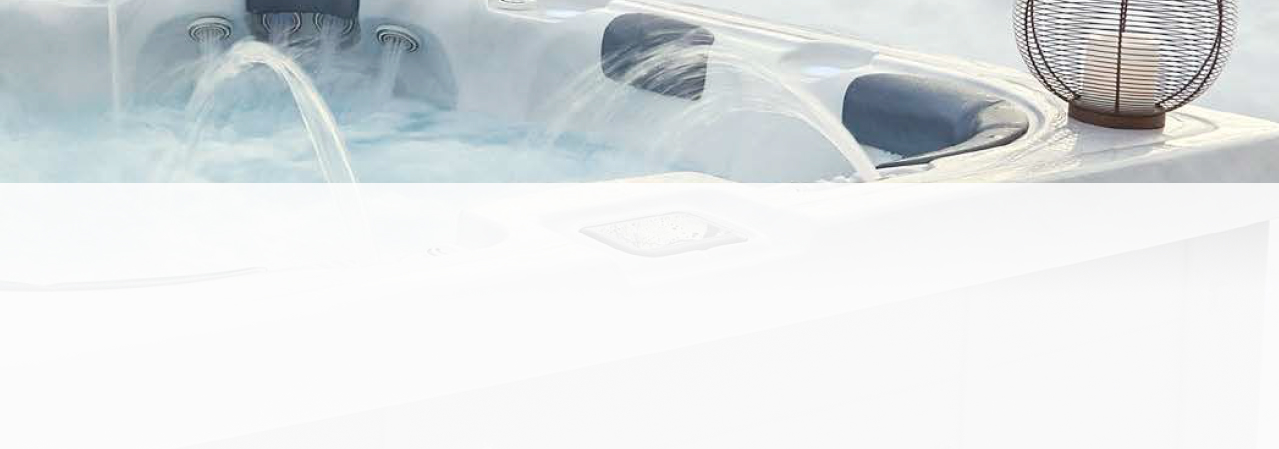
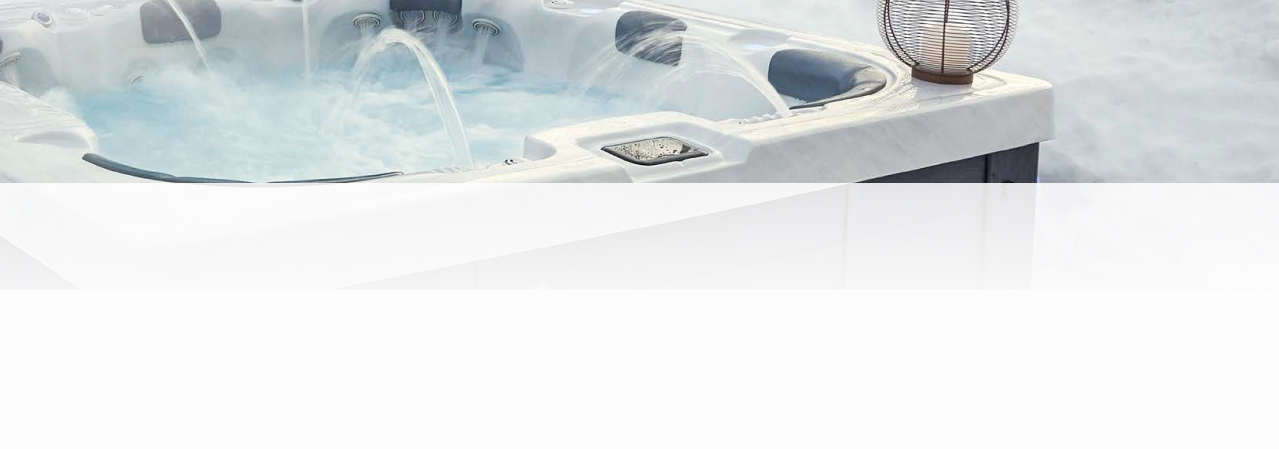
send in hot tub benefits

Changed region(s): [[0.0, 0.0, 1.0, 0.4365], [0.0, 0.1871, 0.183, 0.4053]]

diff --git a/hot-tub-benefits.html b/hot-tub-benefits.html
@@ -103,7 +103,7 @@
      <div id="page">
           <div id="wrapper">
                      <div class="heroWrap">
-         <img class="img-responsive dtop" style="margin:auto; width:100%;" alt="" src="/img/b/hot-tub-benefits-hero-desktop.jpg">
+         <img class="img-responsive dtop" style="margin:auto; width:100%;" alt="" src="/img/hot-tub-benefits-hero-desktop.jpg">
          <img class="img-responsive mobile" style="margin:auto; width:100%;" alt="" src="/img/hot-tub-benefits-hero-mobile.jpg">
       </div>
       <div class="container maincontent">
@@ -129,7 +129,7 @@
                <span id="stress" class="anchor"></span>
                <h2 class="slant-title">Reduced Stress and Anxiety</h2>
                <div class="col-md-4">
-                  <img width="100%" src="https://masterspascdn.com/img/slantInserts/reduce-stress-in-a-hot-tub.png" alt="Reduce stress in a hot tub">
+                  <img width="100%" src="/img/reduce-stress-in-a-hot-tub.jpg" alt="Reduce stress in a hot tub">
                </div>
                <div class="col-md-8">
                   <p>Research shows that soaking in a hot tub can significantly reduce stress and relaxation. </p>
@@ -146,7 +146,7 @@
                <span id="pain" class="anchor"></span>
                <h2 class="slant-title">Pain Relief</h2>
                <div class="col-md-4">
-                  <img width="100%" src="https://masterspascdn.com/img/slantInserts/pain-relief-in-a-hot-tub.png" alt="Reduce pain in a hot tub">
+                  <img width="100%" src="/img/pain-relief-in-a-hot-tub.png" alt="Reduce pain in a hot tub">
                </div>
                <div class="col-md-8">
                   <p>Among the benefits of soaking in a hot tub is relief from chronic pain, which is a growing health problem. According to the Centers for Disease Control, 50 million American adults suffer from chronic pain, and it is "one of the most common reasons adults seek medical care."</p>
@@ -168,7 +168,7 @@
                <span id="mobility" class="anchor"></span>
                <h2 class="slant-title">Increased Mobility</h2>
                <div class="col-md-4">
-                  <img width="100%" src="https://masterspascdn.com/img/slantInserts/hot-tub-improves-mobility.png" alt="Improve Mobility in a hot tub">
+                  <img width="100%" src="/img/hot-tub-improves-mobility.png" alt="Improve Mobility in a hot tub">
                </div>
                <div class="col-md-8">
                   <p>The temperature and buoyancy of the water can help you improve strength and flexibility. Stretching and exercise in a hot tub can also better mobility without the risk of injury. Athletes who are rehabilitating a sports injury can realize the benefits of a hot tub, safely moving stiff joints.</p>
@@ -178,7 +178,7 @@
                <span id="sleep" class="anchor"></span>
                <h2 class="slant-title">Improved Sleep</h2>
                <div class="col-md-4">
-                  <img width="100%" src="https://masterspascdn.com/img/slantInserts/improved-sleep.png" alt="Improve the sleep you get at night with a Gulfsouth Spas hot tub">
+                  <img width="100%" src="/img/improved-sleep.png" alt="Improve the sleep you get at night with a Gulfsouth Spas hot tub">
                </div>
                <div class="col-md-8">
                   <p>In addition to fostering greater relaxation, one amazing benefit to using a hot tub is getting a better night's rest. </p>

diff --git a/customer-support.html b/customer-support.html
@@ -179,7 +179,7 @@
                                              </div>
                                         </a>
                                    </div>
-                                   <div class="col-sm-6 col-md-4" />
+                                   <div class="col-sm-6 col-md-4" ></div>
                               </div>
                          </div>
                     </div>
